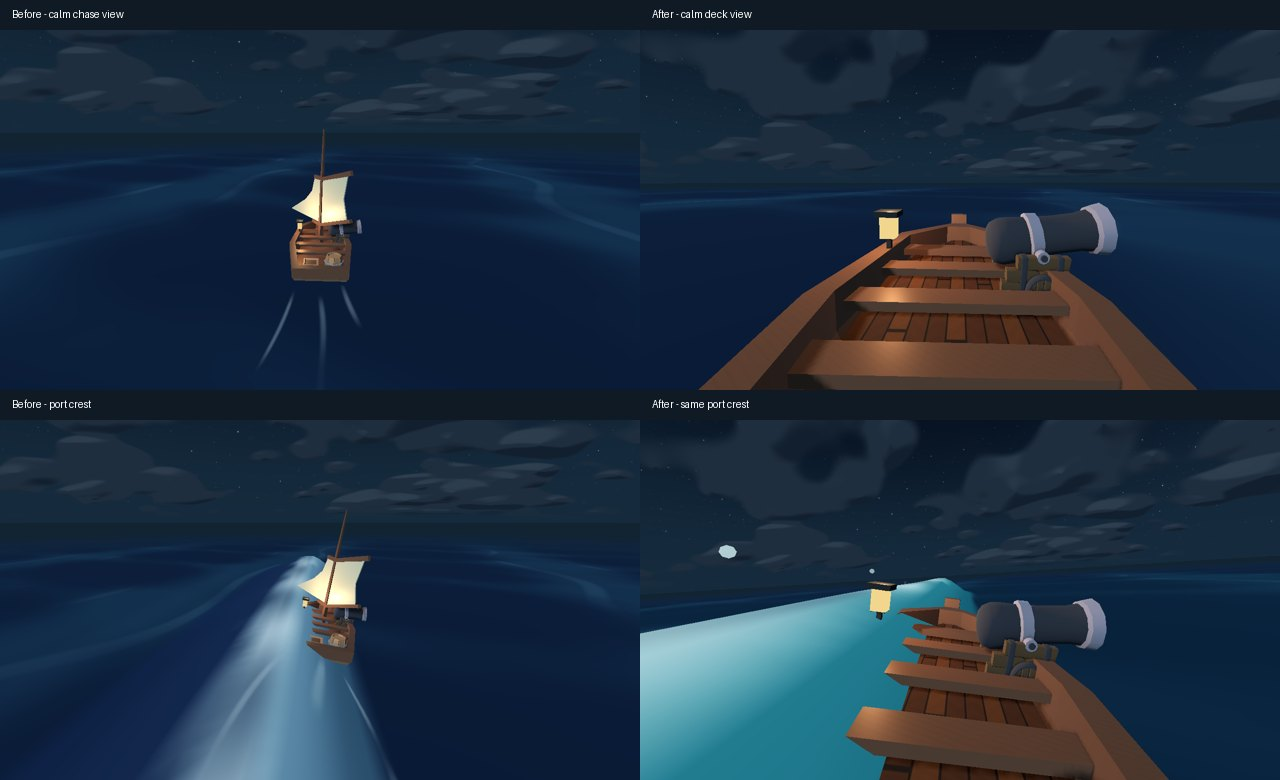
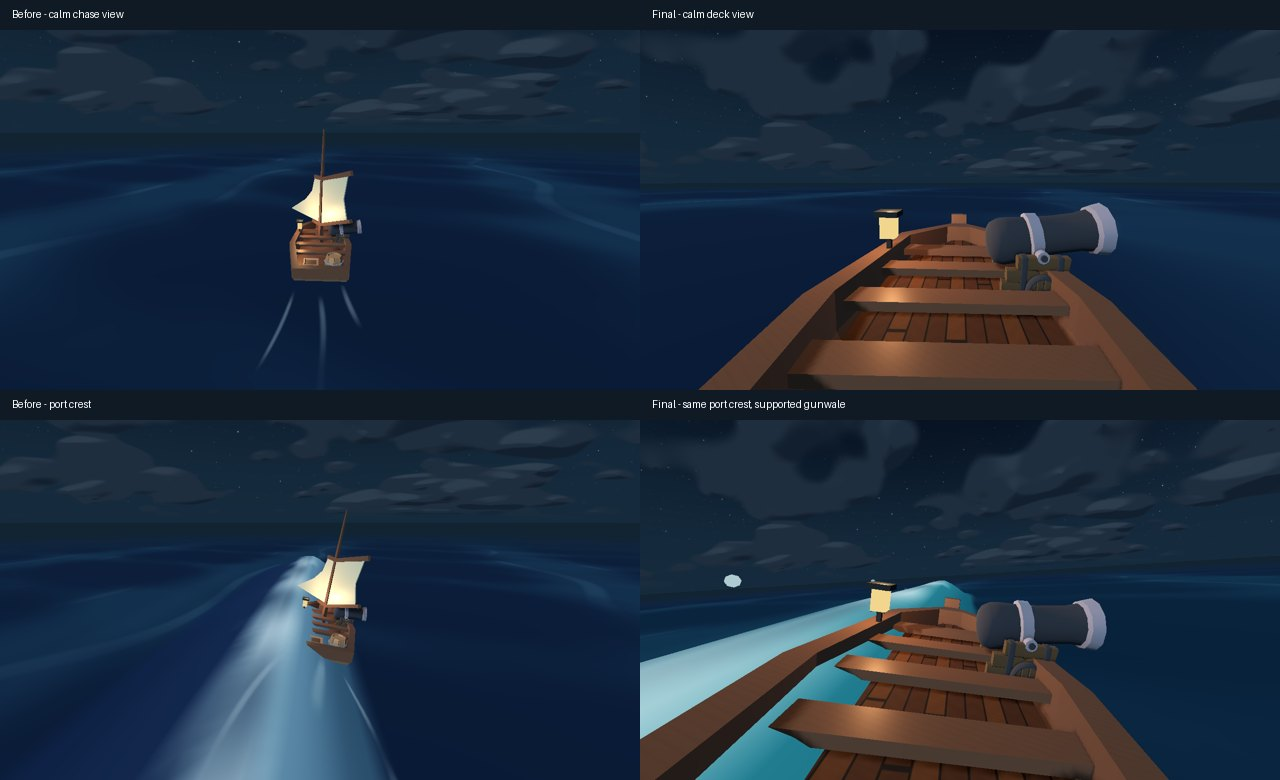
Finalize deck support, integrated controls validation and Web handoff

Changed region(s): [[0.5, 0.7077, 0.75, 1.0], [0.5, 0.4923, 0.6562, 0.5231], [0.5, 0.0, 0.5938, 0.0308]]

diff --git a/tools/turbulence_web_review.py b/tools/turbulence_web_review.py
@@ -1,0 +1,159 @@
+"""Isolated baseline/final Web review, with optional local result collection.
+
+python tools/turbulence_web_review.py --prepare --godot PATH --templates DIR
+python tools/turbulence_web_review.py --serve
+
+Templates must match the engine. No installs, source swaps or recursive deletes.
+Open the printed URL in one browser tab; 24 alternating 40-second runs take about
+16 minutes. Keep other GPU workloads/recording closed during timed samples.
+"""
+from argparse import ArgumentParser
+from functools import partial
+from http.server import SimpleHTTPRequestHandler, ThreadingHTTPServer
+from pathlib import Path
+import json
+import re
+import shutil
+import subprocess
+import zipfile
+
+REPO = Path(__file__).resolve().parents[1]
+
+
+def run_engine(engine, source, arguments, log):
+    with log.open('w', encoding='utf-8') as stream:
+        result = subprocess.run([engine, '--headless', '--path', str(source), *arguments],
+                                stdout=stream, stderr=subprocess.STDOUT)
+    diagnostics = log.read_text(encoding='utf-8', errors='replace')
+    if result.returncode or re.search(r'ERROR:|SCRIPT ERROR:|Parse Error:', diagnostics):
+        raise RuntimeError(f'Engine step failed; inspect {log}')
+
+
+def prepare(args, build):
+    if not args.godot or not args.templates:
+        raise ValueError('--prepare requires --godot and --templates')
+    template_dir = Path(args.templates).resolve()
+    for mode in ['debug', 'release']:
+        if not (template_dir / f'web_nothreads_{mode}.zip').is_file():
+            raise ValueError(f'Missing matching single-thread Web template in {template_dir}')
+    version = subprocess.check_output([args.godot, '--version'], text=True).strip()
+    template_version = template_dir / 'version.txt'
+    if template_version.exists() and not version.startswith(template_version.read_text().strip()):
+        raise ValueError('Engine and template versions differ')
+    baseline = subprocess.check_output(['git', 'rev-parse', args.baseline], cwd=REPO, text=True).strip()
+    build.mkdir(parents=True, exist_ok=True)
+    (REPO / 'build').mkdir(exist_ok=True)
+    (REPO / 'build' / '.gdignore').touch()
+    archive = build / 'baseline.zip'
+    unpacked = build / 'baseline-unpacked'
+    if unpacked.exists():
+        raise FileExistsError(f'Use a new --output directory; preserving {unpacked}')
+    subprocess.run(['git', 'archive', baseline, 'ldjam_60', '-o', str(archive)], cwd=REPO, check=True)
+    with zipfile.ZipFile(archive) as source_zip:
+        source_zip.extractall(unpacked)
+    for variant in ['baseline', 'final', 'release']:
+        source = build / f'{variant}-source'
+        original = unpacked / 'ldjam_60' if variant == 'baseline' else REPO / 'ldjam_60'
+        shutil.copytree(original, source, ignore=shutil.ignore_patterns(
+            '.godot', 'addons', 'tests', 'export_presets.cfg', 'export_credentials.cfg'))
+        # Terrain needs its runtime addon; the editor automation addon is omitted.
+        shutil.copytree(original / 'addons' / 'lite_terrain', source / 'addons' / 'lite_terrain')
+        development = variant != 'release'
+        if development:
+            (source / 'tests').mkdir()
+            for name in ['turbulence_browser.gd', 'turbulence_browser.tscn']:
+                shutil.copy2(REPO / 'ldjam_60' / 'tests' / name, source / 'tests' / name)
+        project = source / 'project.godot'
+        text = project.read_text()
+        text = re.sub(r'^_mcp_game_helper=.*\n', '', text, flags=re.M)
+        text = re.sub(r'^enabled=PackedStringArray\(.*\)$', 'enabled=PackedStringArray()', text, flags=re.M)
+        if development:
+            text = text.replace('run/main_scene="res://game/crossing.tscn"',
+                                'run/main_scene="res://tests/turbulence_browser.tscn"')
+        project.write_text(text)
+        (source / 'export_presets.cfg').write_text(f'''[preset.0]
+name="Web"
+platform="Web"
+runnable=true
+export_filter="all_resources"
+include_filter=""
+exclude_filter="addons/godot_ai/*{'' if development else ',tests/*'}"
+script_export_mode=2
+[preset.0.options]
+custom_template/debug="{(template_dir / 'web_nothreads_debug.zip').as_posix()}"
+custom_template/release="{(template_dir / 'web_nothreads_release.zip').as_posix()}"
+variant/extensions_support=false
+variant/thread_support=false
+vram_texture_compression/for_desktop=true
+vram_texture_compression/for_mobile=false
+html/canvas_resize_policy=0
+html/focus_canvas_on_start=true
+progressive_web_app/enabled=false
+''')
+        destination = build / variant
+        destination.mkdir()
+        run_engine(args.godot, source, ['--editor', '--import', '--quit'], build / f'{variant}-import.log')
+        run_engine(args.godot, source, ['--export-release', 'Web', str(destination / 'index.html')], build / f'{variant}-export.log')
+        for name in ['index.html', 'index.js', 'index.wasm', 'index.pck']:
+            if not (destination / name).is_file() or (destination / name).stat().st_size == 0:
+                raise RuntimeError(f'Incomplete export: {destination / name}')
+        html = destination / 'index.html'
+        text = html.read_text().replace('<canvas id="canvas"', '<canvas width="1280" height="720" id="canvas"')
+        if development:
+            text = text.replace('</body>', '<pre id="bench-status" style="position:fixed;right:8px;top:0;color:white;background:#14232bd9;max-width:420px;font:11px monospace;white-space:pre-wrap;pointer-events:none">Loading...</pre></body>')
+        html.write_text(text)
+    with zipfile.ZipFile(build / 'latitude-lines-web.zip', 'w', zipfile.ZIP_DEFLATED) as bundle:
+        for path in sorted((build / 'release').iterdir()):
+            if path.is_file(): bundle.write(path, path.name)
+    (build / 'metadata.json').write_text(json.dumps({'engine': version, 'baseline': baseline,
+        'final': subprocess.check_output(['git', 'rev-parse', 'HEAD'], cwd=REPO, text=True).strip(),
+        'note': 'Final is copied from the working tree. Timings include the complete rendered frame.'}, indent=2))
+
+
+def serve(build, port):
+    class Handler(SimpleHTTPRequestHandler):
+        def do_POST(self):
+            if self.path != '/result':
+                self.send_error(404)
+                return
+            count = int(self.headers.get('Content-Length', '0'))
+            if count > 100_000:
+                self.send_error(413)
+                return
+            data = json.loads(self.rfile.read(count))
+            with (build / 'browser-results.jsonl').open('a', encoding='utf-8') as output:
+                output.write(json.dumps(data) + '\n')
+            print(json.dumps(data), flush=True)
+            self.send_response(200)
+            self.end_headers()
+            self.wfile.write(b'OK')
+
+        def log_message(self, *_args):
+            pass
+
+    url = f'http://127.0.0.1:{port}/baseline/index.html?version=baseline&run=0&cohort=review'
+    print(f'Open {url}\nResults: {build / "browser-results.jsonl"}', flush=True)
+    ThreadingHTTPServer(('127.0.0.1', port), partial(Handler, directory=str(build))).serve_forever()
+
+
+def main():
+    parser = ArgumentParser(description=__doc__)
+    parser.add_argument('--prepare', action='store_true')
+    parser.add_argument('--serve', action='store_true')
+    parser.add_argument('--godot')
+    parser.add_argument('--templates')
+    parser.add_argument('--baseline', default='96e14a3')
+    parser.add_argument('--output', default=str(REPO / 'build' / 'turbulence-web-review'))
+    parser.add_argument('--port', type=int, default=8766)
+    args = parser.parse_args()
+    build = Path(args.output).resolve()
+    if args.prepare:
+        prepare(args, build)
+    if args.serve:
+        serve(build, args.port)
+    if not args.prepare and not args.serve:
+        parser.print_help()
+
+
+if __name__ == '__main__':
+    main()

diff --git a/artifacts/water_review/TURBULENCE_CAMERA_REPORT.md b/artifacts/water_review/TURBULENCE_CAMERA_REPORT.md
@@ -1,11 +1,13 @@
 # Deck camera and turbulence implementation
 
-Implementation milestone, 2026-10-18 (Pacific/Auckland). Browser measurements
-are in progress; the complete rendered voyage passed.
+Technical implementation and regression checks completed, 2026-10-18
+(Pacific/Auckland). Browser performance acceptance and human playtesting remain open.
 
 Base: `4f464ecc44ca3df609a4125c7fd050874e3aa85b` (fresh origin/main).
 Branch: `codex/turbulence-deck-camera`. Engine: Godot 4.8.dev7.c971f93e7;
 Compatibility renderer; target viewport 1280 x 720.
+Subsequently integrated `origin/main` at `96e14a3255b88e66f2f30a15cd72e535d4f95c29`
+(hold-E controls), merge checkpoint `fe6134e`.
 
 Player experience: stand on the wooden deck, see the lantern left and the real
 cannon right, and feel directional crests lift, bank and settle the hull.
@@ -17,8 +19,9 @@ force/yaw limits, countersteering, finite encounters/recovery, five-point
 flotation, actual-motion wakes, projectile contacts and current controls.
 
 Overlap checked: [draft PR #3](https://github.com/kickflip-games/ludum_dare_60/pull/3)
-by avivajpeyi changes controls and sextant/restart timing, with future overlap in
-crossing.gd and mode tests. This branch preserves the baseline input contracts.
+by avivajpeyi landed during implementation. Its hold-E aiming, F firing,
+0.8-second sextant focus and held sailing restart are integrated and preserved.
+The earlier separate E-glance requirement is superseded by those upstream controls.
 
 ## Implementation and settings
 
@@ -39,6 +42,11 @@ crossing.gd and mode tests. This branch preserves the baseline input contracts.
   the first rendered deck prototype. One fitted, procedural planked floor and
   lantern cage improve close detail. The open hull renders its inboard wood;
   light damage includes an inboard gunwale cut. No duplicate hull or fake cannon.
+- A late close-view check exposed high-side gunwale immersion before the centre
+  rose. The same five-point flotation now supplies at most 0.35 m extra visual
+  edge support, with the existing damping/tilt limits. At the controlled 2.8 s
+  port crossing, outer gunwale clearance improves from -0.212 m to +0.050 m.
+  This does not lift or rotate the collision root or change wave pressure.
 - One 52-instance MultiMesh supplies two 18-droplet impact bursts plus sixteen
   decorative crest flecks. Low uses ten droplets per burst and no crest flecks.
   A single subtle peripheral overlay leaves the centre clear. The same contact
@@ -63,19 +71,20 @@ crossing.gd and mode tests. This branch preserves the baseline input contracts.
 
 | Requirement | Trigger and observed result | Evidence |
 | --- | --- | --- |
-| Deck composition and coherent attachment | Calm at four headings: deck below horizon, lantern left, real cannon right; eye stays within 0.16 m of marker | Sailing camera 28/28; native calm/glance/gun/sighting captures |
-| Camera-only directional weight | 1.85 m fixed-hull frontal/port/starboard/oblique crossings, effects absent: front lift 1.83 m, side lift 1.75 m, side roll 5.96 degrees, opposite bank signs | Turbulence camera 36/36; effects-off recorded sequence and pose traces |
-| Inertia, deduplication and recovery | One compression per crest, four records/events at maximum; impulse and attitude settle; 30/60/120 Hz extrema agree | Same 36-check suite; gap, teleport and two retry controls |
-| Full/Reduced | Side roll 5.96 -> 1.67 degrees, lift remains 1.77 m; working menu selection persists on retry; identical actual movement with matching steering and initial hull transform | Camera and effects suites |
+| Deck composition and coherent attachment | Calm at four headings: deck below horizon, lantern left, real cannon right; eye stays within 0.16 m of marker; strong port crest keeps the gunwale clear | Sailing camera 28/28; native deck/gun/sighting captures; new edge-support check |
+| Camera-only directional weight | 1.85 m fixed-hull frontal/port/starboard/oblique crossings, effects absent: front lift 1.87 m, side lift 1.77 m, side roll 5.96 degrees, opposite bank signs | Turbulence camera 37/37; effects-off recorded sequence and pose traces |
+| Inertia, deduplication and recovery | One compression per crest, four records/events at maximum; impulse and attitude settle; 30/60/120 Hz extrema agree | Same 37-check suite; gap, teleport and two retry controls |
+| Full/Reduced | Side roll 5.96 -> 1.67 degrees, lift remains 1.78 m; working menu selection persists on retry; identical actual movement with matching steering and initial hull transform | Camera and effects suites |
 | Bounded synchronized effects | Shared wave ID creates struck-side spray; 100 repeated four-event submissions retain two burst slots, 52 instances and constant node count | Effects 13/13, including Low cap, expiry, isolation toggles and two retries |
 | World-anchored rough water | Moving boat/mesh does not move the region footprint; recovery fades the envelope | Effects suite; native wave/recovery captures |
-| Wave authority and counterplay | All original physical wave and flotation source files remain unchanged; sampler matches real GPU within 0.000198 | 51,840 GPU comparisons, limit 0.001; wave 33/33; dynamic response 17/17 |
-| Mode/input/navigation preservation | Existing F/E/Space and simultaneous steering contracts, live guiding rays and sighting transitions | Cannon 78/78; stargazing 122/122; HUD 57/57 |
+| Wave authority and counterplay | Original wave geometry, forces and encounters remain unchanged; visual flotation gains bounded edge support; sampler matches real GPU within 0.000198 | 51,840 GPU comparisons, limit 0.001; wave 33/33; dynamic response 17/17 |
+| Mode/input/navigation preservation | Integrated hold-E/F/Space and steering contracts, live guiding rays, faster sighting and held restart | Cannon 79/79; stargazing 123/123; HUD 59/59; controls lifecycle 46/46 |
 | Clearance and lifecycle | Four overlapping maxima, actual terrain sphere sweep/near plane, shores, focus/terminal states and repeated retry | Camera 28/28; cannon/stargazing; effects reset checks |
 | Damage and complete routes | Scratches/repairs remain health-derived; both input-driven physical routes reach harbour | Damage 38/38; archipelago 65/65; ocean 40/40 |
 
-**527 checks pass across eleven headless suites** (36 + 13 + 33 + 40 + 17 +
-28 + 78 + 122 + 38 + 57 + 65). Baseline suites passed before production edits.
+**578 checks pass across twelve headless suites** (37 + 13 + 33 + 40 + 17 +
+28 + 79 + 123 + 38 + 59 + 65 + 46), after upstream integration and the edge-support
+adjustment. Baseline suites passed before production edits.
 The new camera test initially sampled the port crest before its leading face
 arrived; its window now follows the analytic entry time (2.61 s) and samples
 the developed incoming face at 2.75-2.85 s. Its direction/magnitude gate was retained.
@@ -89,7 +98,7 @@ Native device: Intel(R) Graphics, OpenGL 3.3 driver 32.0.101.6651,
 Compatibility, 1280 x 720. Raw logs, 800-frame directional sequences, poses and
 clips remain under ignored `artifacts/water_review/turbulence_camera/`.
 
-The final rendered, normal-control voyage reached harbour in **225.57 simulated
+The pre-integration rendered, normal-control voyage reached harbour in **225.57 simulated
 seconds**, with **2/3 hull**, **zero shore impacts**, and **20 waves in two completed
 ten-crest encounters**. The same controlled oblique wave displaced an unsteered
 boat **30.95 m**, versus **3.63 m** with real steering actions. The voyage fixture
@@ -97,13 +106,52 @@ runs eight simulation ticks per rendered frame; its timings are not a normal
 gameplay performance benchmark.
 
 Local motion evidence: [eight-second before/after comparison](turbulence_camera/before-after.gif)
-and [camera-only port crossing](turbulence_camera/camera-only.gif). Native review
+and [camera-only port crossing](turbulence_camera/camera-only.gif), recorded before
+the final edge-support adjustment. Native review
 inspected recorded frame progressions and pose traces, including calm, each side,
-frontal/oblique/four-wave impacts, glance, real cannon, sighting and recovery.
+frontal/oblique/four-wave impacts, real cannon, sighting and recovery. Both complete
+physical routes also pass on the final integrated code; the long rendered voyage
+was not repeated after the visual edge adjustment.
 
 ![Matched calm and port-crest views](../turbulence_camera_review.jpg)
 
 ## Limits and pending acceptance
+
+Partial browser measurements used Chrome/155.0.0.0 in the in-app browser,
+WebGL 2, Intel Core Ultra 7 155U / Intel Graphics, Balanced power, 1280 x 720.
+The measured presentation build was `93d3432`, before the final visual edge
+support and upstream controls integration. Each row below is one completed
+10 s warmup + 30 s sample, not the requested three repeats.
+
+| Final-build scenario | Median / p95 / p99 frame interval (ms) | Frames >33.3 ms | Peak effects |
+| --- | --- | --- | --- |
+| Low, calm | 16.7 / 21.3 / 27.6 | 3 / 1783 | 0 |
+| Low, four waves | 16.7 / 22.3 / 27.6 | 2 / 1766 | 20 |
+| Standard, calm | 16.7 / 27.3 / 111.0 | 45 / 1521 | 0 |
+| Standard, four waves | 17.3 / 143.6 / 206.0 | 120 / 1091 | 52 |
+
+These partial samples were interrupted for integration/asset-import work and
+then paused by the user. Later Standard samples include substantial desktop/import
+interference. They do **not** establish sustained 60 fps or the 30 fps fallback
+target. Baseline/final node counts stayed at 575/600 after warmup, including repeated
+wave cycles; Web static-memory reporting returned zero (unavailable). No recording
+or screenshot readback ran in the timed sample loops. The final three-repeat,
+quiet-desktop benchmark and browser focus/resume audit remain uncompleted, as
+requested when wrapping up quickly. Raw partial records remain in the ignored
+review directory.
+
+`tools/turbulence_web_review.py --prepare --godot PATH --templates DIR` prepares
+separate baseline/final development exports plus a clean release ZIP. It refuses
+to overwrite existing staging folders and checks engine diagnostics. `--serve`
+starts the optional localhost result collector for a later full benchmark.
+The final tool was executed successfully against integrated main `96e14a3` and
+the final working tree. All three isolated exports imported/exported without
+script or engine errors. The release excludes development fixtures and editor
+automation; the local distributable is `build/turbulence-wrap/latitude-lines-web.zip`
+(14,155,087 bytes). Final rendered calm, cannon-entry/fire, sighting, frontal,
+port/starboard, oblique, four-wave and recovery captures are in
+`turbulence_camera/wrap-final/`; cannon metadata confirms one actual fired shot.
+The tracked comparison image above was refreshed from these final captures.
 
 The supplied generated video and its sampled contact sheet were available and
 inspected as the composition/motion target. This reproduces observable deck,
@@ -114,8 +162,7 @@ The largest waves can visibly wash across an edge of this open boat; no flooding
 or damage mechanic was introduced. Bow wash sheet and FOV impact pulses were
 not added: contact spray and camera motion already carry those optional cues.
 
-Browser runs and final diff review are pending at this checkpoint. Subjective
-motion comfort, fun, balance and a human comparison
+Subjective motion comfort, fun, balance and a human comparison
 with the reference remain pending; automated routes cannot establish them.
 
 Export constraints were checked against the

diff --git a/ldjam_60/game/ocean/README.md b/ldjam_60/game/ocean/README.md
@@ -12,6 +12,9 @@ while artificial sailing trim uses only 0.25/0.12. Heading remains the actual
 steering heading. The analytic damped response snaps across teleports, reversed
 clocks and gaps over 0.25 seconds. Final water/terrain/near-plane protection runs
 after presentation offsets. Gunner and star modes retain their precision poses.
+The same five flotation samples supply up to 0.35 m of extra visual edge support
+when a side crest reaches the gunwale before the centre rises. Existing damping,
+tilt limits, planar collisions and wave forces are retained.
 
 Per-wave height, peak and filtered descent detect one compression per crest.
 The same ID, direction and intensity drive head compression, spray and generated
@@ -44,11 +47,13 @@ godot --headless --path ldjam_60 --script res://tests/turbulence_effects_smoke.g
 godot --path ldjam_60 --fixed-fps 60 --script res://tests/turbulence_camera_previews.gd -- --clip --no-effects
 ```
 
-Preview options: `--views-only`, `--clip`, `--no-effects`, `--output=/absolute/path`.
+Preview options: `--views-only`, `--clip`, `--no-effects`, `--no-camera`,
+`--no-spray`, `--no-overlays`, `--no-sound`, `--output=/absolute/path`.
 The `turbulence_browser.tscn` fixture is only for a separate development staging
 export: it alternates baseline/final, Low/Standard, calm/four-wave runs, each with
 ten seconds warmup and thirty seconds measurement. It needs the accompanying
-local report server; it is not a normal gameplay entry point.
+local report server; it is not a normal gameplay entry point. Prepare and serve
+it with `tools/turbulence_web_review.py` from the repository root (use `--help`).
 
 ## Night water and foam
 

diff --git a/changelog.md b/changelog.md
@@ -11,12 +11,15 @@ recorded evidence and limitations.
   obstructing canvas, retained the real cannon and added a fitted planked floor.
   Wave forces, controls and planar collisions are preserved. Fixed Web staging's
   omission of the runtime terrain addon and Web ambient audio playback.
-  527 automated checks and 51,840 GPU comparisons pass; the rendered voyage
-  reaches harbour without shore impacts. Browser measurements and human comfort testing remain
-  in progress. See the [implementation report](artifacts/water_review/TURBULENCE_CAMERA_REPORT.md).
+  Bounded visual edge support keeps the gunwale coherent during side crests.
+  578 checks across twelve suites pass after integration; 51,840 GPU comparisons
+  pass and the earlier rendered voyage reaches harbour without shore impacts.
+  Partial browser timings are recorded without claiming performance acceptance;
+  full profiling and human comfort testing remain open. See the
+  [implementation report](artifacts/water_review/TURBULENCE_CAMERA_REPORT.md).
 - Integrated the newly merged hold-E cannon controls from `96e14a3` into the
   deck-camera branch, retaining upstream's faster sextant and held restart.
-  Updated camera fixtures; post-integration input checks are pending.
+  Updated camera fixtures; post-integration cannon, sighting and lifecycle checks pass.
 - Simplified cannon controls to hold E / press F with immediate steering on
   release, Space priority and no buffered/autofire shots. Sextant focus now takes
   0.8 seconds; sailing restarts require a continuous 0.6-second R hold.

diff --git a/artifacts/water_review/TURBULENCE_CAMERA_IMPLEMENTATION_PLAN.md b/artifacts/water_review/TURBULENCE_CAMERA_IMPLEMENTATION_PLAN.md
@@ -1,7 +1,9 @@
 # Turbulence, deck camera, and boat presentation: implementation plan
 
 Date: 2026-10-18 (Pacific/Auckland)
-Status: approved direction translated into an implementation plan; implementation and new playtests have not been performed.
+Status: technical implementation delivered on `codex/turbulence-deck-camera`;
+see [implementation evidence](TURBULENCE_CAMERA_REPORT.md). Full browser-performance
+acceptance and human playtesting remain open.
 
 ## 1. Objective and source of truth
 
